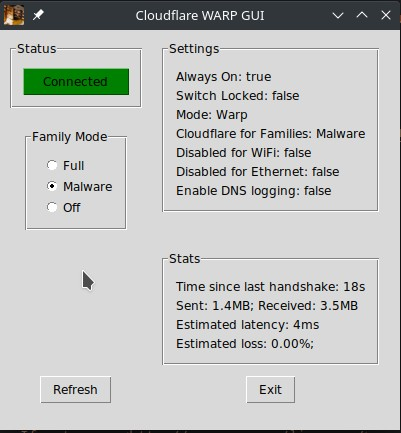
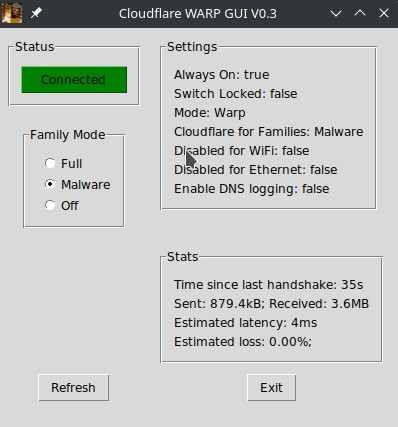
Connect button now stable

diff --git a/warp-cli-gui.py b/warp-cli-gui.py
@@ -27,7 +27,8 @@ License: GPL-3.0
 
 Versions:
 Version 0.1 initial commit 29 Dec 2021
-V0.2 - Connect/Disconnect button working, Top frames and status button better aligned, connect status not reliable yet though
+V0.2 Connect/Disconnect button working, Top frames and status button better aligned, connect status not reliable yet though
+V0.3 Finally stable for connect/disconnect status
 
 
 TODO: - Connect/Disconnect button action (test it more as sometimes manual refresh needed after reconnection to show green)
@@ -53,15 +54,16 @@ import subprocess
 
 # Set global variable to test during execution if connected
 connected = True
+version = "V0.3"
 
 # set root window called root
 root = Tk()
 # Set window title
-root.title('Cloudflare WARP GUI')
+root.title('Cloudflare WARP GUI ' + version)
 # Set window logo
 root.iconphoto(True, PhotoImage(file="hardheadlogo32.png"))
 # Set size of main window
-root.geometry("400x450")
+root.geometry("400x400")
 
 
 # Checks first to see if the app is running on Linux otherwise pops error and exits
@@ -97,8 +99,8 @@ frame_family = LabelFrame(root, text="Family Mode", padx=10, pady=10)
 frame_family.grid(sticky=N, row=1, column=0, padx=10, pady=10)
 
 
-# Function to handle Family Mode Radio button click
 def family_clicked(value):
+    # Function to handle Family Mode Radio button click
     # Execute the set-families-mode change using value brought over from radio button press
     # Todo = test result for valid execution
     result = (subprocess.run(['warp-cli', 'set-families-mode', value], capture_output=True, text=True)).stdout
@@ -107,32 +109,34 @@ def family_clicked(value):
 
 def update_conn_status():
     # Check if warp-cli connection is connected by running status command, and format returned text, and set connect status variable
-    # TODO: Need to try improve reliability for extraction part
     # Use globally defined connected variable
     global connected
+    # Runs CLI command to check status for connectivity
     warp_connected = ((subprocess.run(['warp-cli', 'status'], capture_output=True)).stdout).splitlines()
-    # Extract part where 'Connected' should appear
+    # Extract part where "b'Status update: Connected'"" or "b'Status update: Connected'"" should appear and set warp_connected to that
+    # "b'Success'" or "b'Status update: Connecting'" are also possible, but if returned, then retest again by recalling function
     warp_connected = str(warp_connected[1])
-
+    
     if warp_connected == "b'Status update: Connected'":
-#        myConnect_Btn = Button(frame_status, text=" Connected ", width=10, bg="green", relief=RAISED)
         connected = True
-    else:
-#        myConnect_Btn = Button(frame_status, text="Disconnected", width=10, bg="red", relief=SUNKEN)
+    elif warp_connected == "b'Status update: Disconnected'":
         connected = False
+    else:
+        # Means any of the two sought status' were not returned yet, so retry
+        update_conn_status()
 
     # Debug Condition to check extracted text
     #print("|" + warp_connected + "|")
 
 
 def connect_clicked():
-    print("Is this click working?")
     if connected:
         # Run command to disconnect and result should be 'Success' as result[0]
         result = (subprocess.run(['warp-cli', 'disconnect'], capture_output=True, text=True)).stdout
     else:
+        # Run command to connect and result should be 'Success' as result[0]
         result = (subprocess.run(['warp-cli', 'connect'], capture_output=True, text=True)).stdout
-    
+    # Now refresh
     refresh_all()
 
 def refresh_settings():
@@ -177,7 +181,7 @@ def refresh_stats():
     for widgets in frame_stats.winfo_children():
         widgets.destroy()    
 
-    # If connected do stats, if not nothing to display so output message
+    # If connected do stats, if not connected then just display message
     if connected:
         # Check and read output of stats into a list, every line split into new list item, displayed in frame
         warp_stats = ((subprocess.run(['warp-cli', 'warp-stats'], capture_output=True)).stdout).splitlines()
@@ -202,8 +206,9 @@ def refresh_stats():
         warp_stats_noconnect_lbl = Label(frame_stats, text="   Not connected   ")
         warp_stats_noconnect_lbl.grid(row=0, column=0, sticky=W)
 
+
 def display_connect_btn():
-    # Add CONNECT BUTTON to Status frame
+    # Add CONNECT BUTTON to Status frame with text description and colour
     if connected:
         myConnect_Btn = Button(frame_status, text=" Connected ", width=10, bg="green", relief=RAISED, command=connect_clicked)
     else:
@@ -223,9 +228,6 @@ update_conn_status()
 display_connect_btn()
 refresh_settings()
 refresh_stats()
-
-
-
 
 
 

diff --git a/README.md b/README.md
@@ -20,11 +20,10 @@ This software is available under the GPL-3.0. You should have received a copy of
 ## Functionality
 - Status button toggles connect or disconnect from WARP
 - Family mode can be toggled between Full, Malware, Off
-- Current settings displayed and refreshed if changed (press refresh button)
-- Current stats displayed and refreshed if refresh button pressed (manual refresh only right now)
+- Current WARP settings displayed, and refreshed if changed (or press refresh button)
+- Current WARP stats displayed and refreshed if refresh button pressed (manual refresh only right now)
 
 ## Todo's on the Road Map
-- Connect/Disconnect button action (test it more as sometimes manual refresh needed after reconnection to show green)
 - Pull though current Family Mode status to radio buttons
 - Fix spacings and layout
 - "Always stay connected" option setting
@@ -39,3 +38,4 @@ See my video about the initial creation of this app at https://youtu.be/hhPhiV0o
 ## Versions
 - V0.1 Initial release on 29 Dec 2021. Basically functional but needs connect button to be activated.
 - V0.2 Connect/Disconnect button working, Top frames and status button better aligned, connect status not reliable yet though
+- V0.3 Connect/Disconnect button status is finally stable through IF condition testing more rigourously for alternatives being returned from status command
